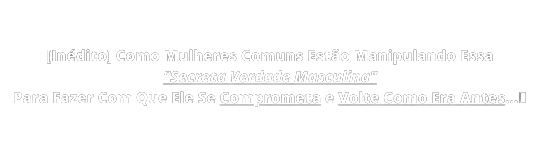
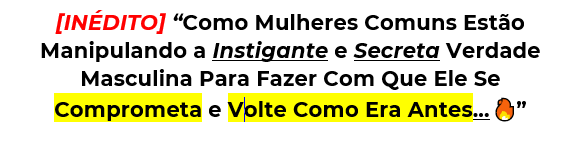
att

diff --git a/index.html b/index.html
@@ -42,7 +42,7 @@
 <div id="top-bar-bg">
   <div class="container">
     <div class="row">
-      <div id="headline"><h3 style="text-align: center;font-size: 1.33em;font-family: 'Montserrat';color: aliceblue;">"Como Mulheres Comuns Estão Manipulando A <strong><br>Secreta Verdade Masculina</br></strong> Para Fazer Com Que Ele Se <ins>Comprometa</ins> e <ins>Volte Como Era Antes</ins>!&#128293;"</h3></div>
+      <div id="headline"> <img src="images/headline.png"> </div>
       <div id="headVidWrap" class="col-xl-8 col-lg-9 col-md-12 col-sm-12 centerDiv">
         <div id="vid-wrap">
           <script src="https://fast.wistia.com/embed/medias/zs0wvux33o.jsonp" async></script><script src="https://fast.wistia.com/assets/external/E-v1.js" async></script><div class="wistia_responsive_padding" style="padding:56.25% 0 0 0;position:relative;"><div class="wistia_responsive_wrapper" style="height:100%;left:0;position:absolute;top:0;width:100%;"><div class="wistia_embed wistia_async_zs0wvux33o seo=false videoFoam=true" style="height:100%;position:relative;width:100%"><div class="wistia_swatch" style="height:100%;left:0;opacity:0;overflow:hidden;position:absolute;top:0;transition:opacity 200ms;width:100%;"><img src="https://fast.wistia.com/embed/medias/zs0wvux33o/swatch" style="filter:blur(5px);height:100%;object-fit:contain;width:100%;" alt="" aria-hidden="true" onload="this.parentNode.style.opacity=1;" /></div></div></div></div>
